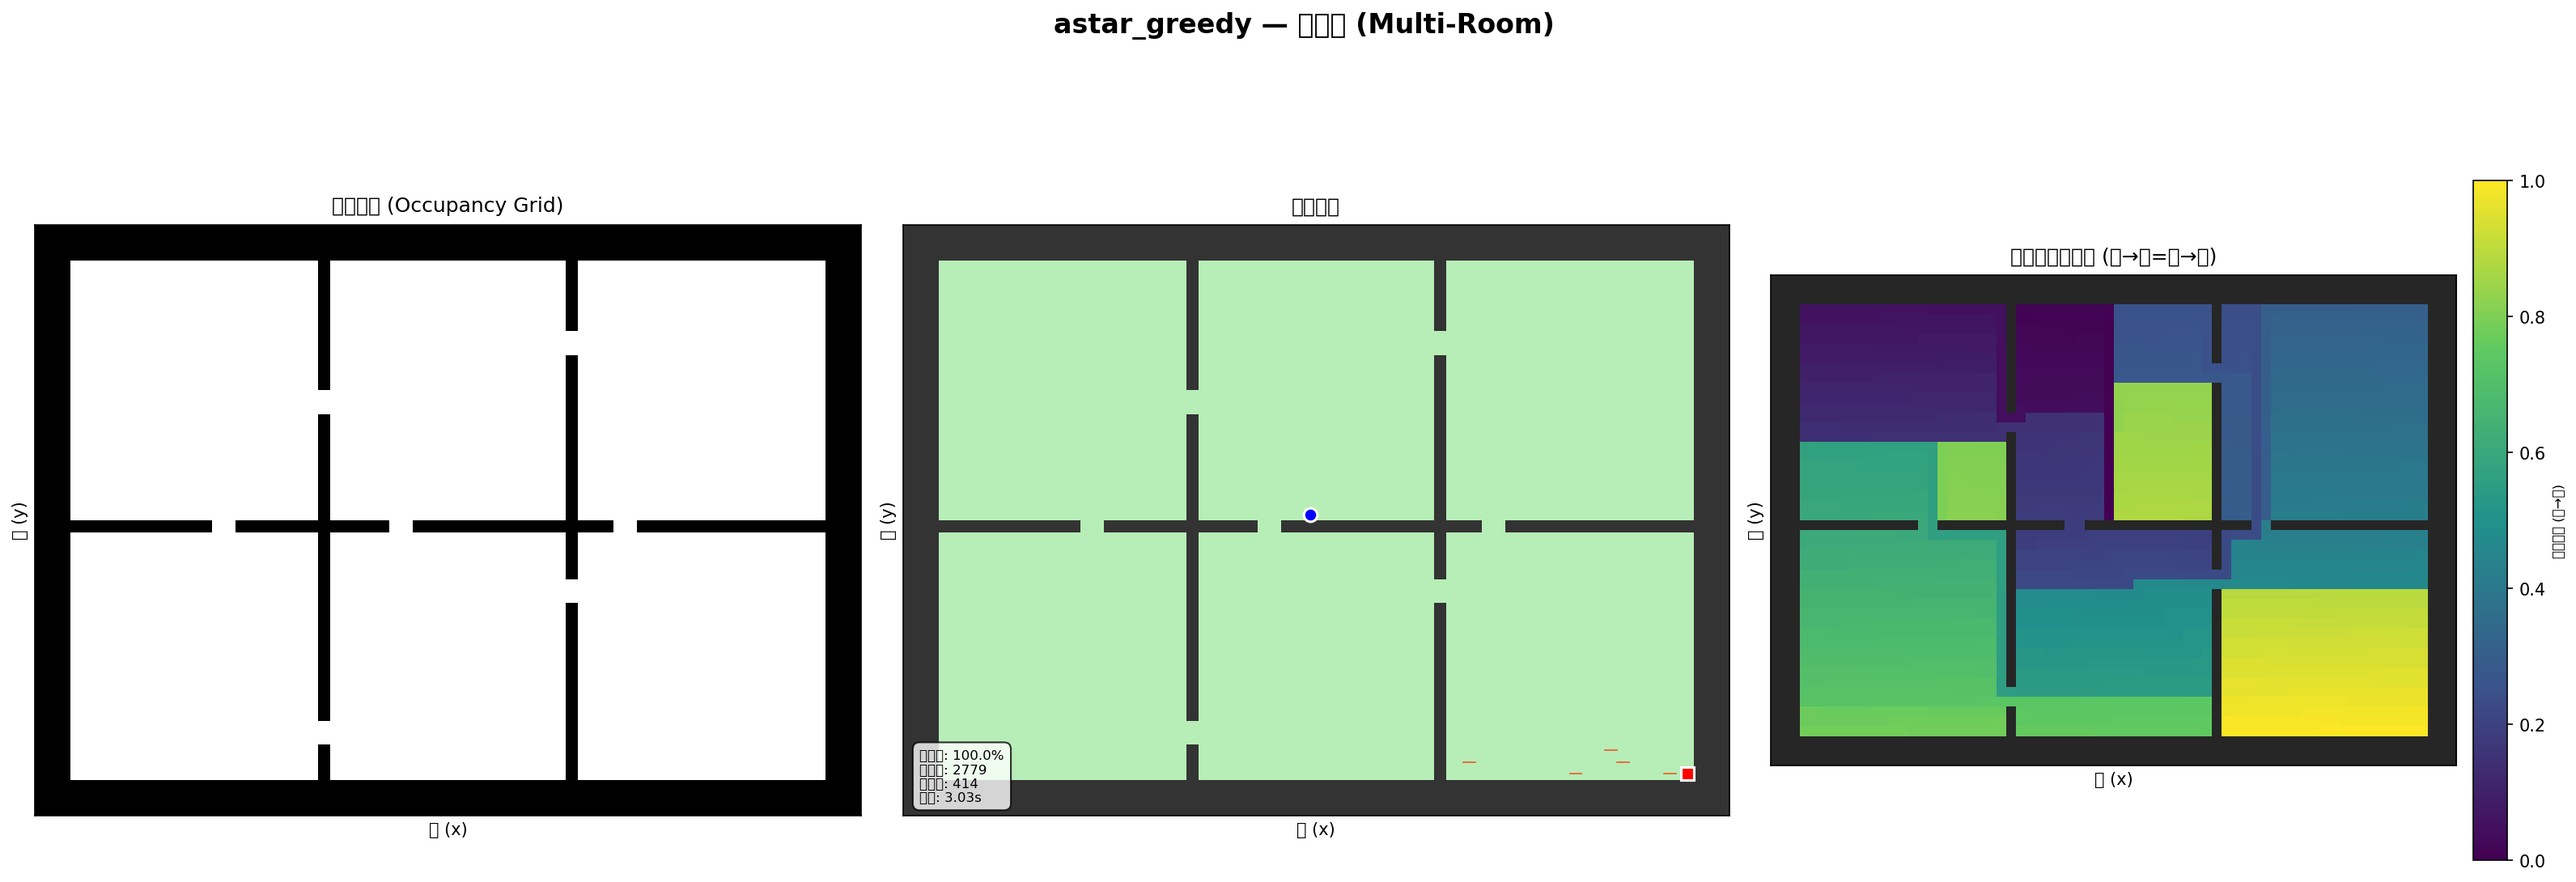
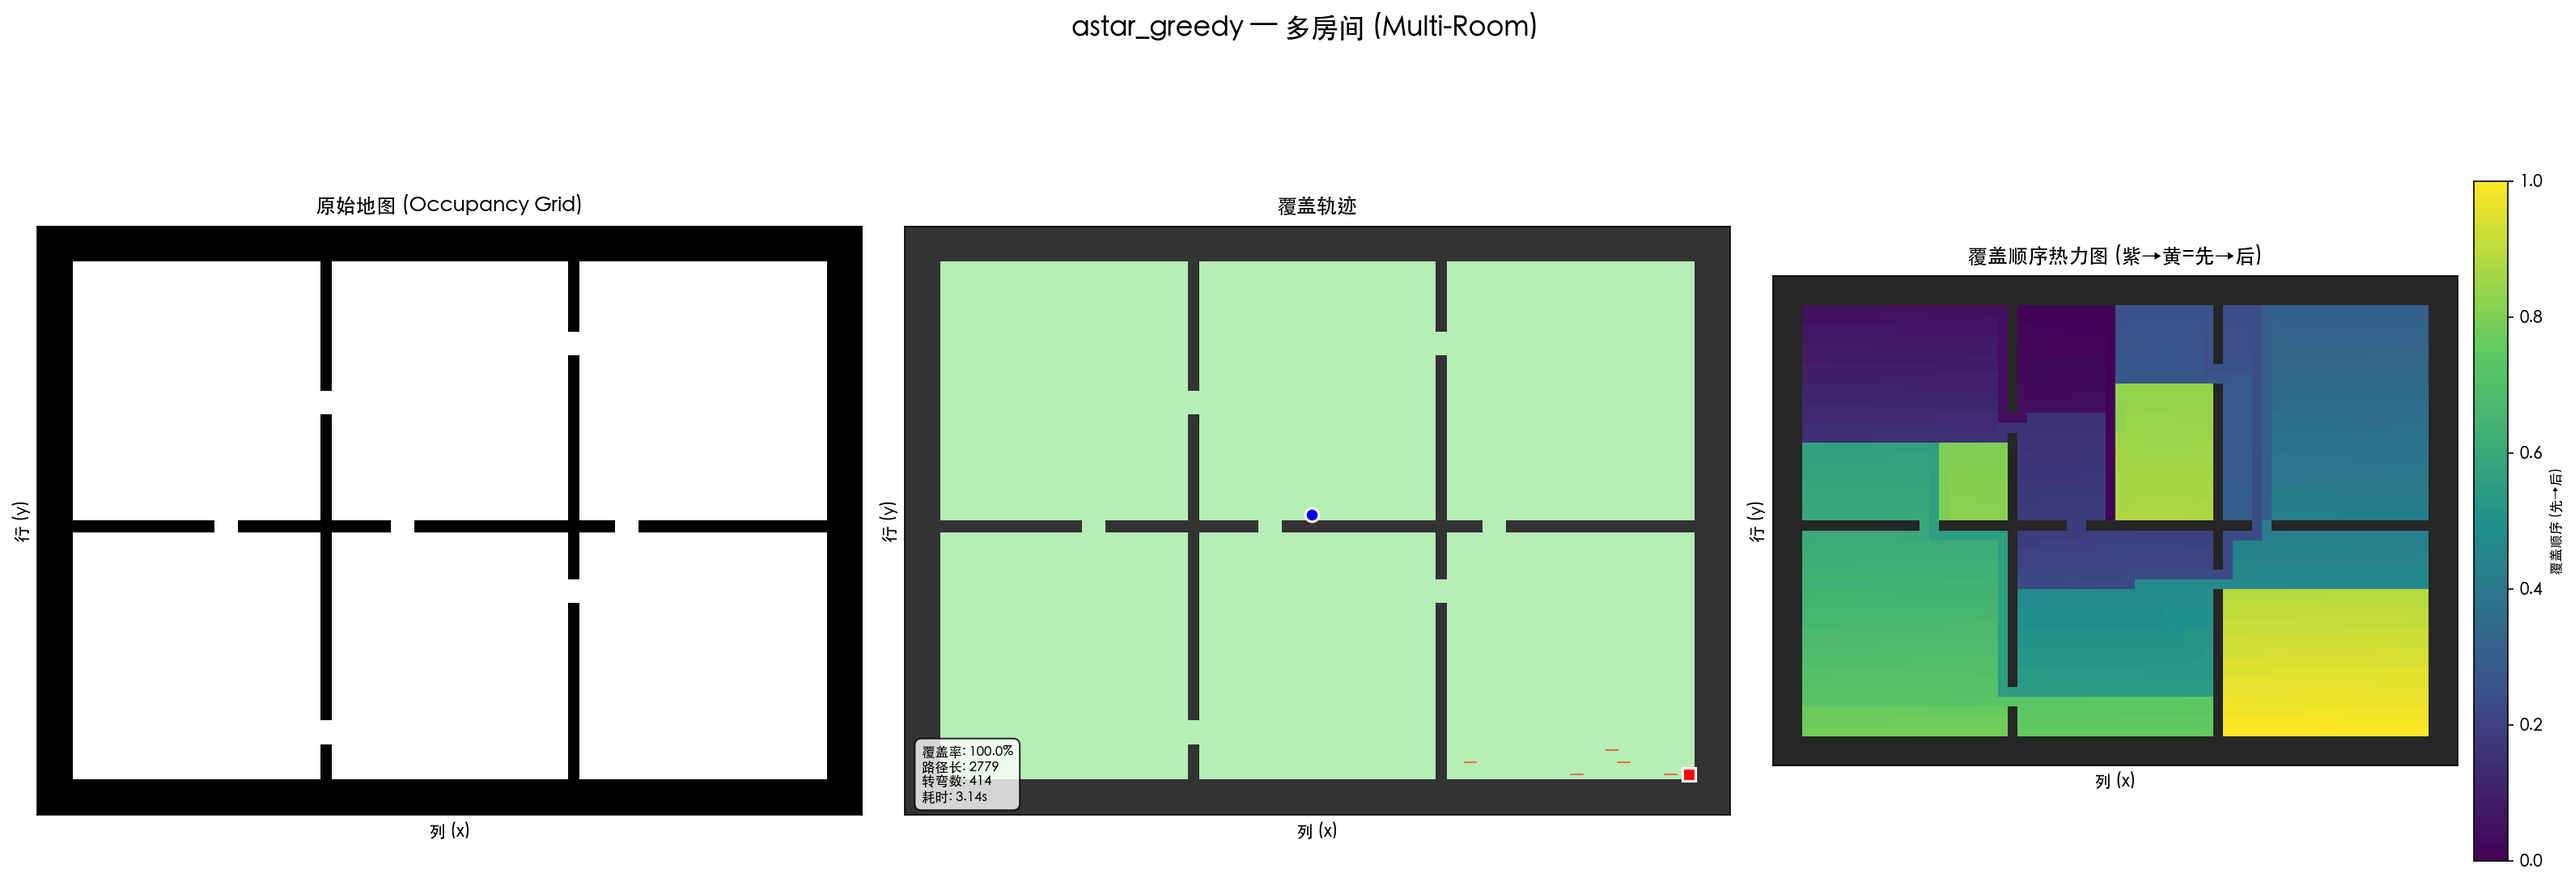
Fix CJK font rendering in visualizations (Heiti TC)
- Remove font override in CoveragePlotter.__init__ that was overwriting
  the global CJK font config with DejaVu Sans
- Add explicit import of matplotlib.font_manager
- Regenerate all 20 result images with correct Chinese text display
- Update metrics.csv

diff --git a/visualization/plotter.py b/visualization/plotter.py
@@ -11,6 +11,7 @@
 import numpy as np
 import matplotlib
 matplotlib.use('Agg')
+import matplotlib.font_manager as fm
 import matplotlib.pyplot as plt
 from matplotlib.colors import LinearSegmentedColormap
 from typing import List, Tuple, Dict, Optional
@@ -18,19 +19,21 @@ import os
 
 
 # 中文字体配置（macOS）
+_cjk_font_found = False
 for _f in ['Heiti SC', 'Heiti TC', 'STSong', 'Songti SC',
            'PingFang SC', 'Apple SD Gothic Neo']:
     try:
-        _p = matplotlib.font_manager.findfont(
-            _f, fallback_to_default=False
-        )
+        _p = fm.findfont(_f, fallback_to_default=False)
         plt.rcParams['font.sans-serif'] = [_f] + \
             [x for x in plt.rcParams.get('font.sans-serif', [])
              if x != _f]
+        _cjk_font_found = True
         break
     except Exception:
         continue
 plt.rcParams['axes.unicode_minus'] = False
+if _cjk_font_found:
+    print(f"[Plotter] CJK font activated: {plt.rcParams['font.sans-serif'][0]}")
 
 
 # 自定义颜色方案
@@ -65,10 +68,6 @@ class CoveragePlotter:
         """
         self.figsize = figsize
         self.dpi = dpi
-
-        # 中文字体回退（若系统不支持则使用英文）
-        plt.rcParams['font.sans-serif'] = ['DejaVu Sans', 'Arial']
-        plt.rcParams['axes.unicode_minus'] = False
 
     def plot_all(
         self,
